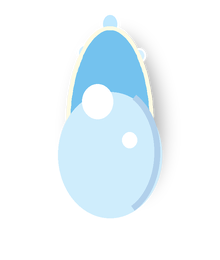
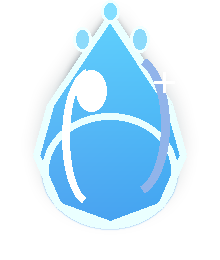
Fix v26 repair drop orientation

diff --git a/htmlDemo简单互动玩法/宝石鉴定html_v26RealAsset版.html b/htmlDemo简单互动玩法/宝石鉴定html_v26RealAsset版.html
@@ -544,7 +544,7 @@
             radial-gradient(circle at 47% 24%, rgba(255,255,255,.74) 0 3px, transparent 4px),
             radial-gradient(circle at 68% 38%, rgba(255,255,255,.56) 0 3px, transparent 4px),
             rgba(80,150,210,.76);
-        transform:translate(-50%, -50%) rotate(-45deg) scale(var(--repair-scale, 1));
+        transform:translate(-50%, -50%) scale(var(--repair-scale, 1));
         transform-origin:center;
         box-shadow:0 0 0 8px rgba(80,150,210,.18), inset 10px 8px 16px rgba(255,255,255,.26);
         font-size:16px;
@@ -2202,11 +2202,14 @@
             radial-gradient(circle at 50% 50%, rgba(95,88,80,.26) 0 48%, rgba(95,88,80,.18) 60%, transparent 72%);
     }
     body.v26-real-asset .hotspot-repair{
-        width:72px;
-        height:96px;
+        width:118px;
+        height:150px;
+        border:0;
         border-radius:0;
         background:var(--v26-defect-repair) center / contain no-repeat;
         box-shadow:none;
+        color:transparent;
+        font-size:0;
     }
     body.v26-real-asset .hotspot-cut::before{
         width:264px;

diff --git a/htmlDemo简单互动玩法/codex_changelist_宝石鉴定v24.md b/htmlDemo简单互动玩法/codex_changelist_宝石鉴定v24.md
@@ -272,3 +272,25 @@
 - `lens_inner_glass_A.png` 的中心透明度进一步降低，仅保留边缘玻璃圈和高光。
 - 三张镜片滤镜 `lens_filter_surface_A.png`、`lens_filter_transmit_B.png`、`lens_filter_crack_C.png` 的中心 alpha 降到约 3，边缘保留识别色与镜片特征，减少遮挡宝石。
 - 更新 `asset-manifest.json` 与 `ui_v26_asset_contact_sheet.png`。
+
+## 2026-05-22 18:55 +08:00 - Codex 1 ?
+????????????
+
+???
+- ?? `ui_defect_fx/defect_repair_drop_C.png`????????????????????????????????????????
+- v26 HTML ? `.hotspot-repair` ? `72x96` ??? `118x150`???????????????????
+- ?? `asset-manifest.json` ? `ui_v26_asset_contact_sheet.png`?
+
+???
+- v26 ??????? Node REPL `new Function(...)` ?????
+- `git diff --check` ???
+
+## 2026-05-22 19:05 +08:00 - Codex 1 ?
+???????????????
+
+???
+- ???? `.hotspot-repair` ? `rotate(-45deg)`???????????????????
+- v26 ? `.hotspot-repair` ????????????????????????
+
+???
+- v26 ??????? Node REPL `new Function(...)` ?????

diff --git a/htmlDemo简单互动玩法/codex_handoff_宝石鉴定原型.md b/htmlDemo简单互动玩法/codex_handoff_宝石鉴定原型.md
@@ -784,3 +784,20 @@ Q/E 只在这三个工具中循环：
 后续注意：
 
 - 镜片图如果继续精修，优先保持“中心透明，边缘体现镜片类型”的规则，避免压住宝石主视觉。
+
+# 2026-05-22 18:55 +08:00 Codex 1 ?????
+???????????
+
+?????
+- `defect_repair_drop_C.png` ??????????????????????????????????
+- `v26RealAsset` ? `.hotspot-repair` ???????? `118x150`??????????????
+
+?????
+- ??????????????????????????????? 3 ?????/?????
+
+# 2026-05-22 19:05 +08:00 Codex 1 ?????
+????????????????????
+
+?????
+- ?? `.hotspot-repair` ?? `rotate(-45deg)`?
+- v26 ???????????????????????
